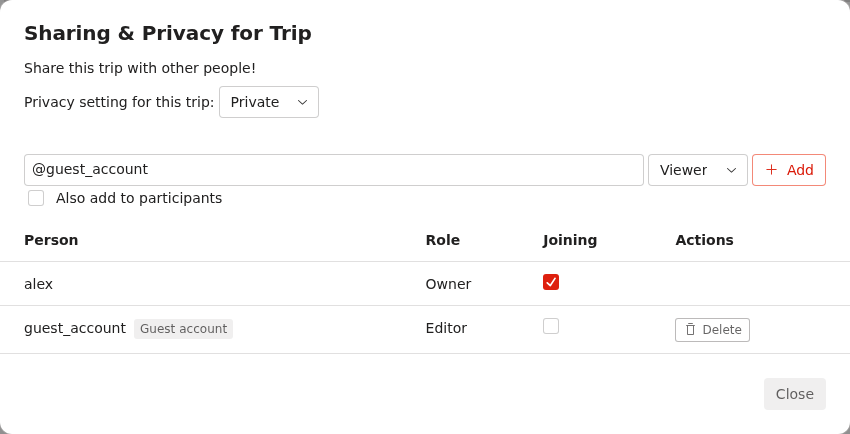
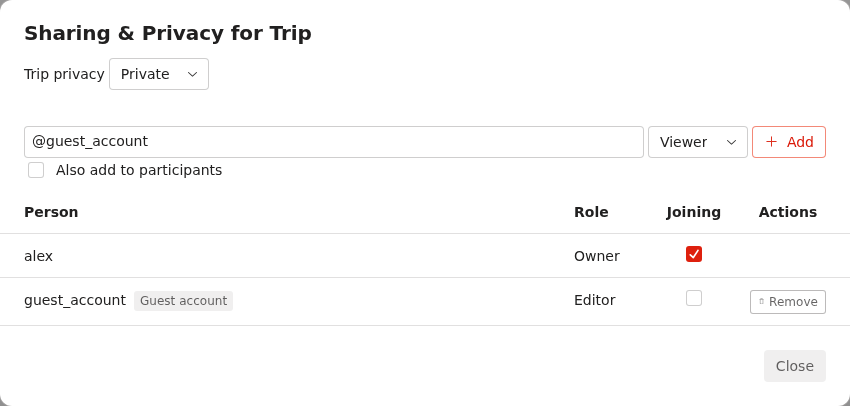
Trim redundant expense and sharing copy

diff --git a/src/Expense/ExpenseBalancesDialog.tsx b/src/Expense/ExpenseBalancesDialog.tsx
@@ -1,5 +1,4 @@
 import {
-  Badge,
   Button,
   Checkbox,
   Dialog,
@@ -168,7 +167,11 @@ export function ExpenseBalancesDialog({ trip }: { trip: TripSliceTrip }) {
             ?.balances.find((b) => b.participantId === draft.senderId)
             ?.amountMinor ?? '0',
         ) + n;
-      result = `${title(draft.senderId)} ${balance > 0n ? 'will be owed' : 'will owe'} ${formatMinor((balance < 0n ? -balance : balance).toString(), draft.currency)}`;
+      const senderName = title(draft.senderId);
+      result =
+        balance === 0n
+          ? `${senderName}’s ${draft.currency} balance will be settled.`
+          : `${senderName} ${balance > 0n ? 'will be owed' : 'will owe'} ${formatMinor((balance < 0n ? -balance : balance).toString(), draft.currency)}`;
     } catch {
       /* Inline validation occurs on submit. */
     }
@@ -296,12 +299,6 @@ export function ExpenseBalancesDialog({ trip }: { trip: TripSliceTrip }) {
                     mt="1"
                   />
                 </Text>
-                {draft.paidAmount && (
-                  <Text size="2">
-                    {draft.amount} {draft.currency} cleared for{' '}
-                    {draft.paidAmount} {draft.paidCurrency}
-                  </Text>
-                )}
               </>
             )}
             <Flex direction="column" gap="1">
@@ -340,11 +337,13 @@ export function ExpenseBalancesDialog({ trip }: { trip: TripSliceTrip }) {
         ) : (
           <Flex direction="column" gap="4">
             <ExpenseHistory tripId={trip.id} timeZone={trip.timeZone} />
-            {data && data.splitCount < data.expenseCount && (
-              <Text size="1" color="gray">
-                {data.splitCount} of {data.expenseCount} expenses split
-              </Text>
-            )}
+            {data &&
+              data.splitCount > 0 &&
+              data.splitCount < data.expenseCount && (
+                <Text size="1" color="gray">
+                  {data.splitCount} of {data.expenseCount} expenses split
+                </Text>
+              )}
             {!data?.currencies.length && (
               <Text color="gray" size="2">
                 No split expenses.
@@ -373,7 +372,7 @@ export function ExpenseBalancesDialog({ trip }: { trip: TripSliceTrip }) {
                     </Flex>
                   );
                 })}
-                {group.suggestions.length ? (
+                {group.suggestions.length > 0 && (
                   <>
                     <Text weight="medium" size="2" mt="2">
                       Settle balances
@@ -404,8 +403,6 @@ export function ExpenseBalancesDialog({ trip }: { trip: TripSliceTrip }) {
                       </Flex>
                     ))}
                   </>
-                ) : (
-                  <Badge color="gray">All settled</Badge>
                 )}
               </Flex>
             ))}

diff --git a/src/Trip/TripDialog/TripSharingDialog.tsx b/src/Trip/TripDialog/TripSharingDialog.tsx
@@ -201,6 +201,7 @@ export function TripSharingDialog({
       <Dialog.Content
         width="calc(100% - 2 * var(--space-4))"
         maxWidth={CommonLargeDialogMaxWidth}
+        aria-describedby={undefined}
         onEscapeKeyDown={(e) => {
           if (e.defaultPrevented) return;
           e.preventDefault();
@@ -217,14 +218,11 @@ export function TripSharingDialog({
         }}
       >
         <Dialog.Title>Sharing & Privacy for Trip</Dialog.Title>
-        <Dialog.Description size="2">
-          Share this trip with other people!
-        </Dialog.Description>
 
         {currentUserIsOwner ? (
           <Flex direction="column" gap="2" my="2">
             <Flex direction="row" gap="1" align="baseline">
-              <Text size="2">Privacy setting for this trip: </Text>
+              <Text size="2">Trip privacy</Text>
               <Select.Root
                 name="tripSharingLevel"
                 value={String(tripSharingLevel)}
@@ -328,7 +326,7 @@ export function TripSharingDialog({
                     gap="1"
                   >
                     <Text size="1" color="gray" weight="medium">
-                      Invited Viewers (Viewer Role)
+                      Invited viewers
                     </Text>
                     {(
                       [

diff --git a/src/Expense/ExpenseSplitFields.tsx b/src/Expense/ExpenseSplitFields.tsx
@@ -172,12 +172,7 @@ export const ExpenseSplitFields = memo(function ExpenseSplitFields({
         >
           <div className={s.controlRow}>
             <Text size="2" className={s.peopleSummary}>
-              Split among:{' '}
-              {value.shares
-                .map(
-                  (row) => peopleById.get(row.participantId)?.name ?? 'Person',
-                )
-                .join(', ') || 'No people selected'}
+              {value.shares.length ? 'Split among' : 'No people selected'}
             </Text>
             <div className={s.control}>
               <TripPeopleDialog
@@ -203,7 +198,7 @@ export const ExpenseSplitFields = memo(function ExpenseSplitFields({
           </div>
           <div className={s.controlRow}>
             <Text as="label" htmlFor={methodId} size="2">
-              Split method:
+              Split method
             </Text>
             <Select.Root
               value={value.method}

diff --git a/src/Expense/ExpenseCard.tsx b/src/Expense/ExpenseCard.tsx
@@ -177,9 +177,6 @@ function ExpenseCardView({
                 <Text as="p" size="2">
                   Delete expense "{expense.title}"?
                 </Text>
-                <Text as="p" size="2" color={dangerToken}>
-                  This action is irreversible!
-                </Text>
                 <Flex gap="3" mt="4" justify="end">
                   <Popover.Close>
                     <Button variant="soft" color="gray">
